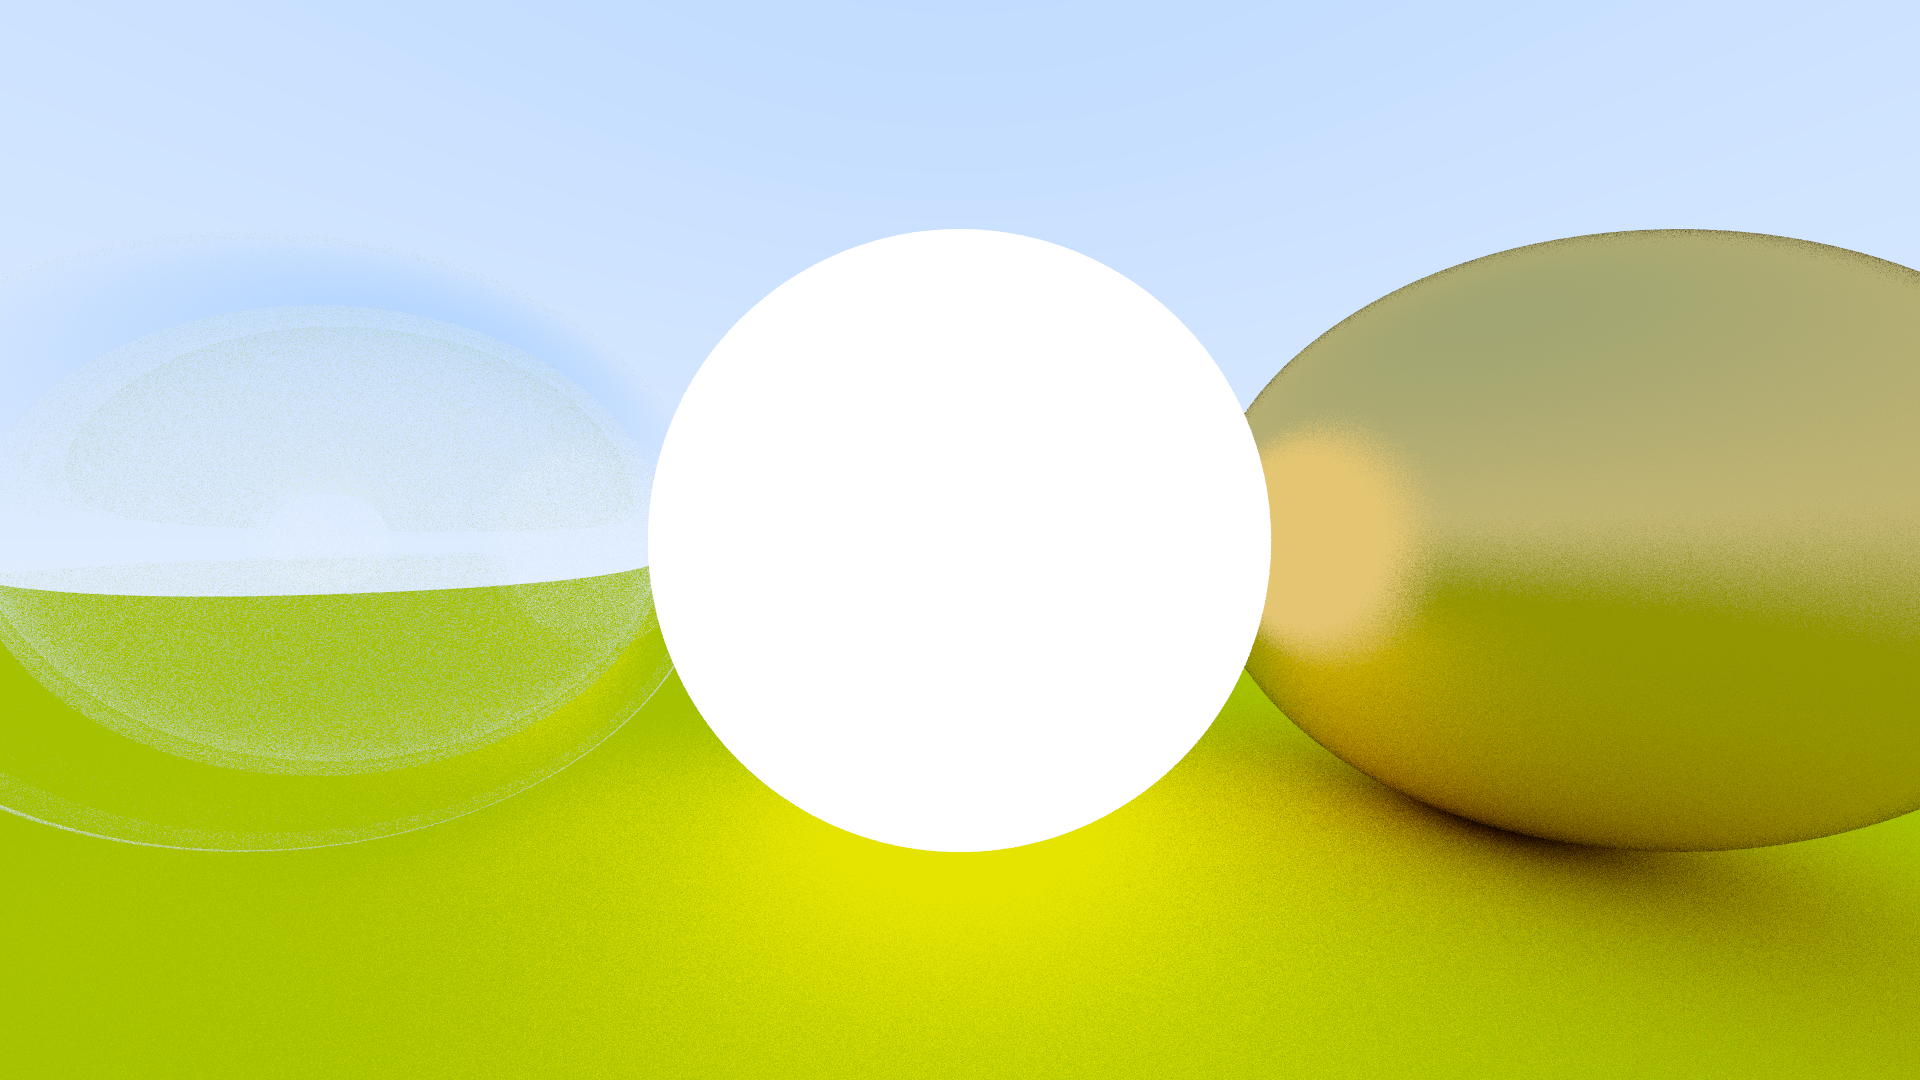
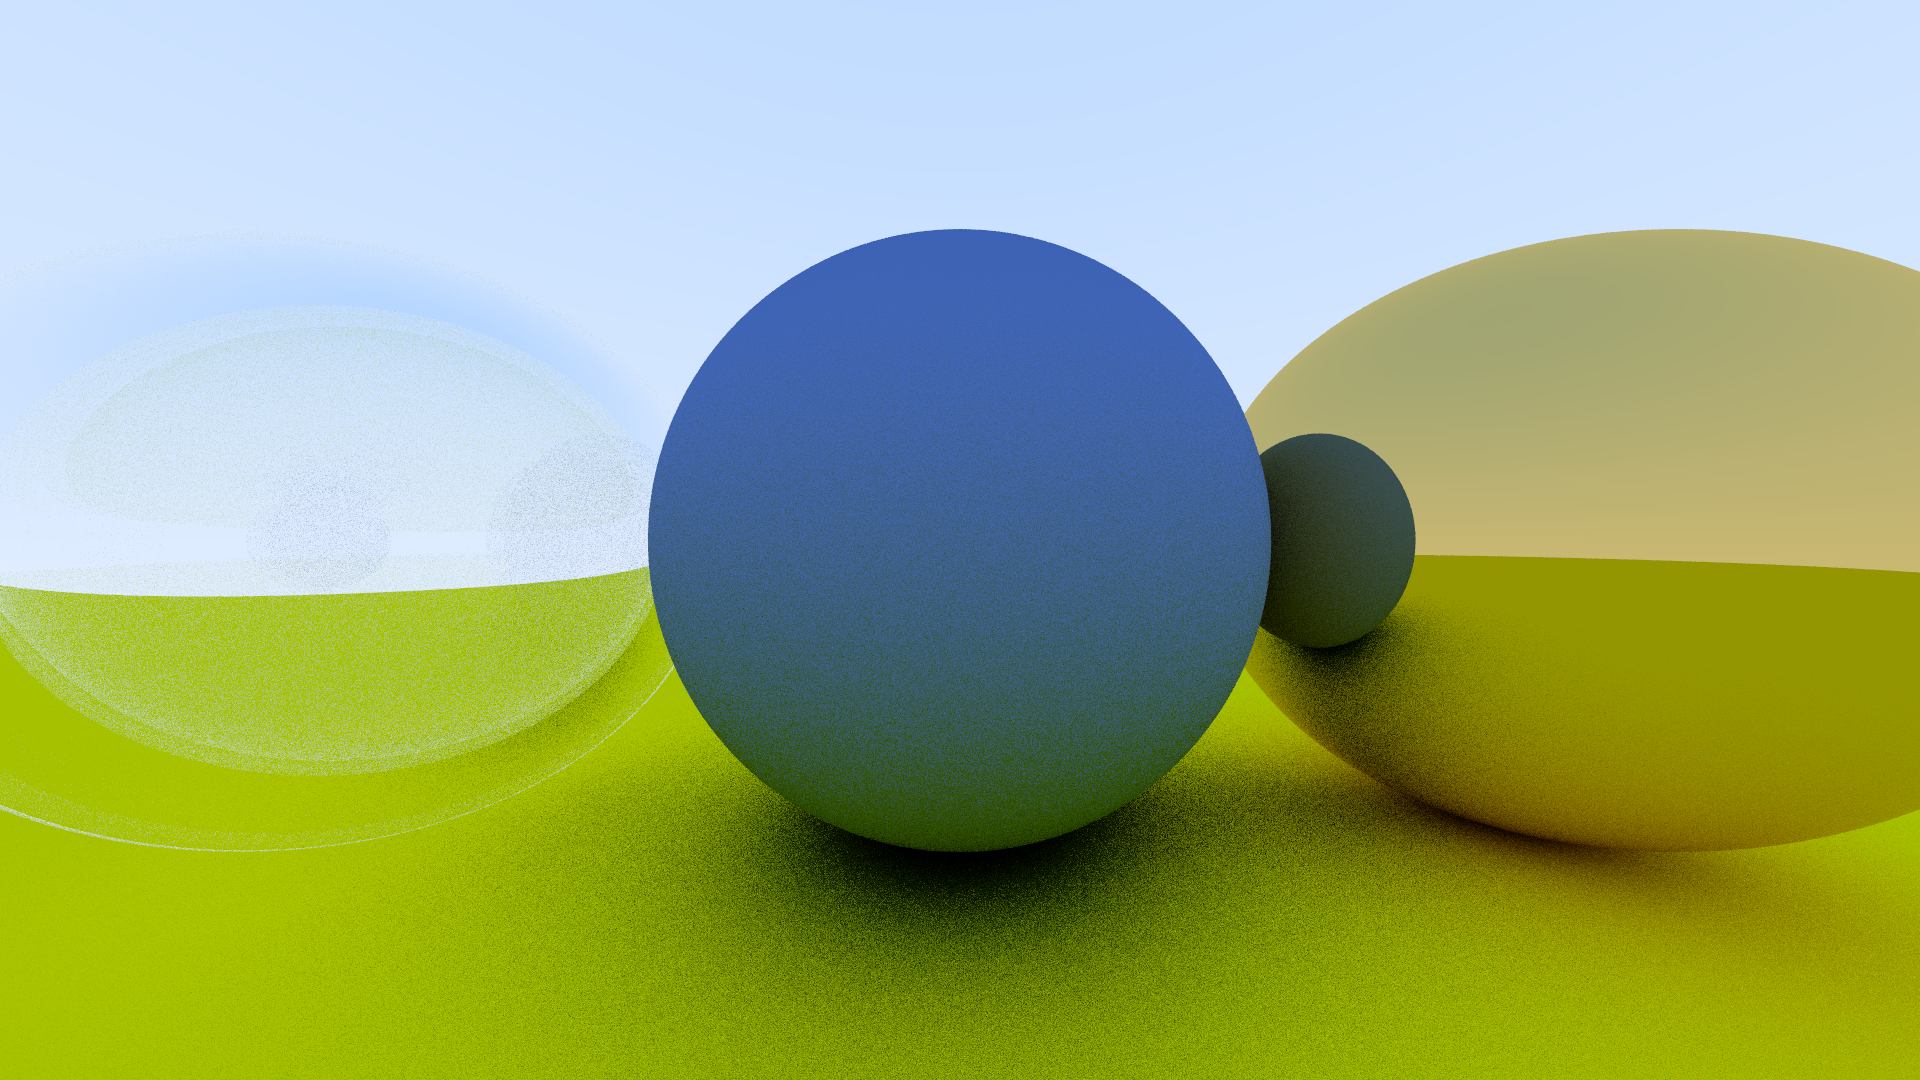
Fixed metal fuzz

diff --git a/08/metal.h b/08/metal.h
@@ -8,13 +8,11 @@ class Metal : public Material {
 
         virtual bool scatter(const Ray &r_in, const HitRecord &rec, Color &attentuation, Ray &scattered) const override {
             Vec3 reflected = reflect(unit_vector(r_in.direction()), rec.normal);
-            scattered = Ray(rec.p, reflected + fuzz*random_in_unit_sphere());
-            if (dot(scattered.direction(), rec.normal) > 0) {
-                attentuation = albedo;
-                return true;
-            }
-            attentuation = Color(0.0, 0.0, 0.0);
-            return false;
+            do {
+                scattered = Ray(rec.p, reflected + fuzz*random_in_unit_sphere());
+            } while (dot(scattered.direction(), rec.normal) <= 0);
+            attentuation = albedo;
+            return true;
         }
 
     private:

diff --git a/08/main.cpp b/08/main.cpp
@@ -65,8 +65,8 @@ int main(int argc, char *argv[]) {
   // World
   HittableList world;
   auto material_ground = std::make_shared<Lambertian>(Color(0.8, 0.8, 0.0));
-  //auto material_center = std::make_shared<Lambertian>(Color(0.1, 0.2, 0.5));
-  auto material_center = std::make_shared<Light>(Color(1.0, 1.0, 1.0));
+  auto material_center = std::make_shared<Lambertian>(Color(0.1, 0.2, 0.5));
+  // auto material_center = std::make_shared<Light>(Color(1.0, 1.0, 1.0));
   auto material_left   = std::make_shared<Dielectric>(1.5);
   auto material_right  = std::make_shared<Metal>(Color(0.8, 0.6, 0.2), 0.3);
 
